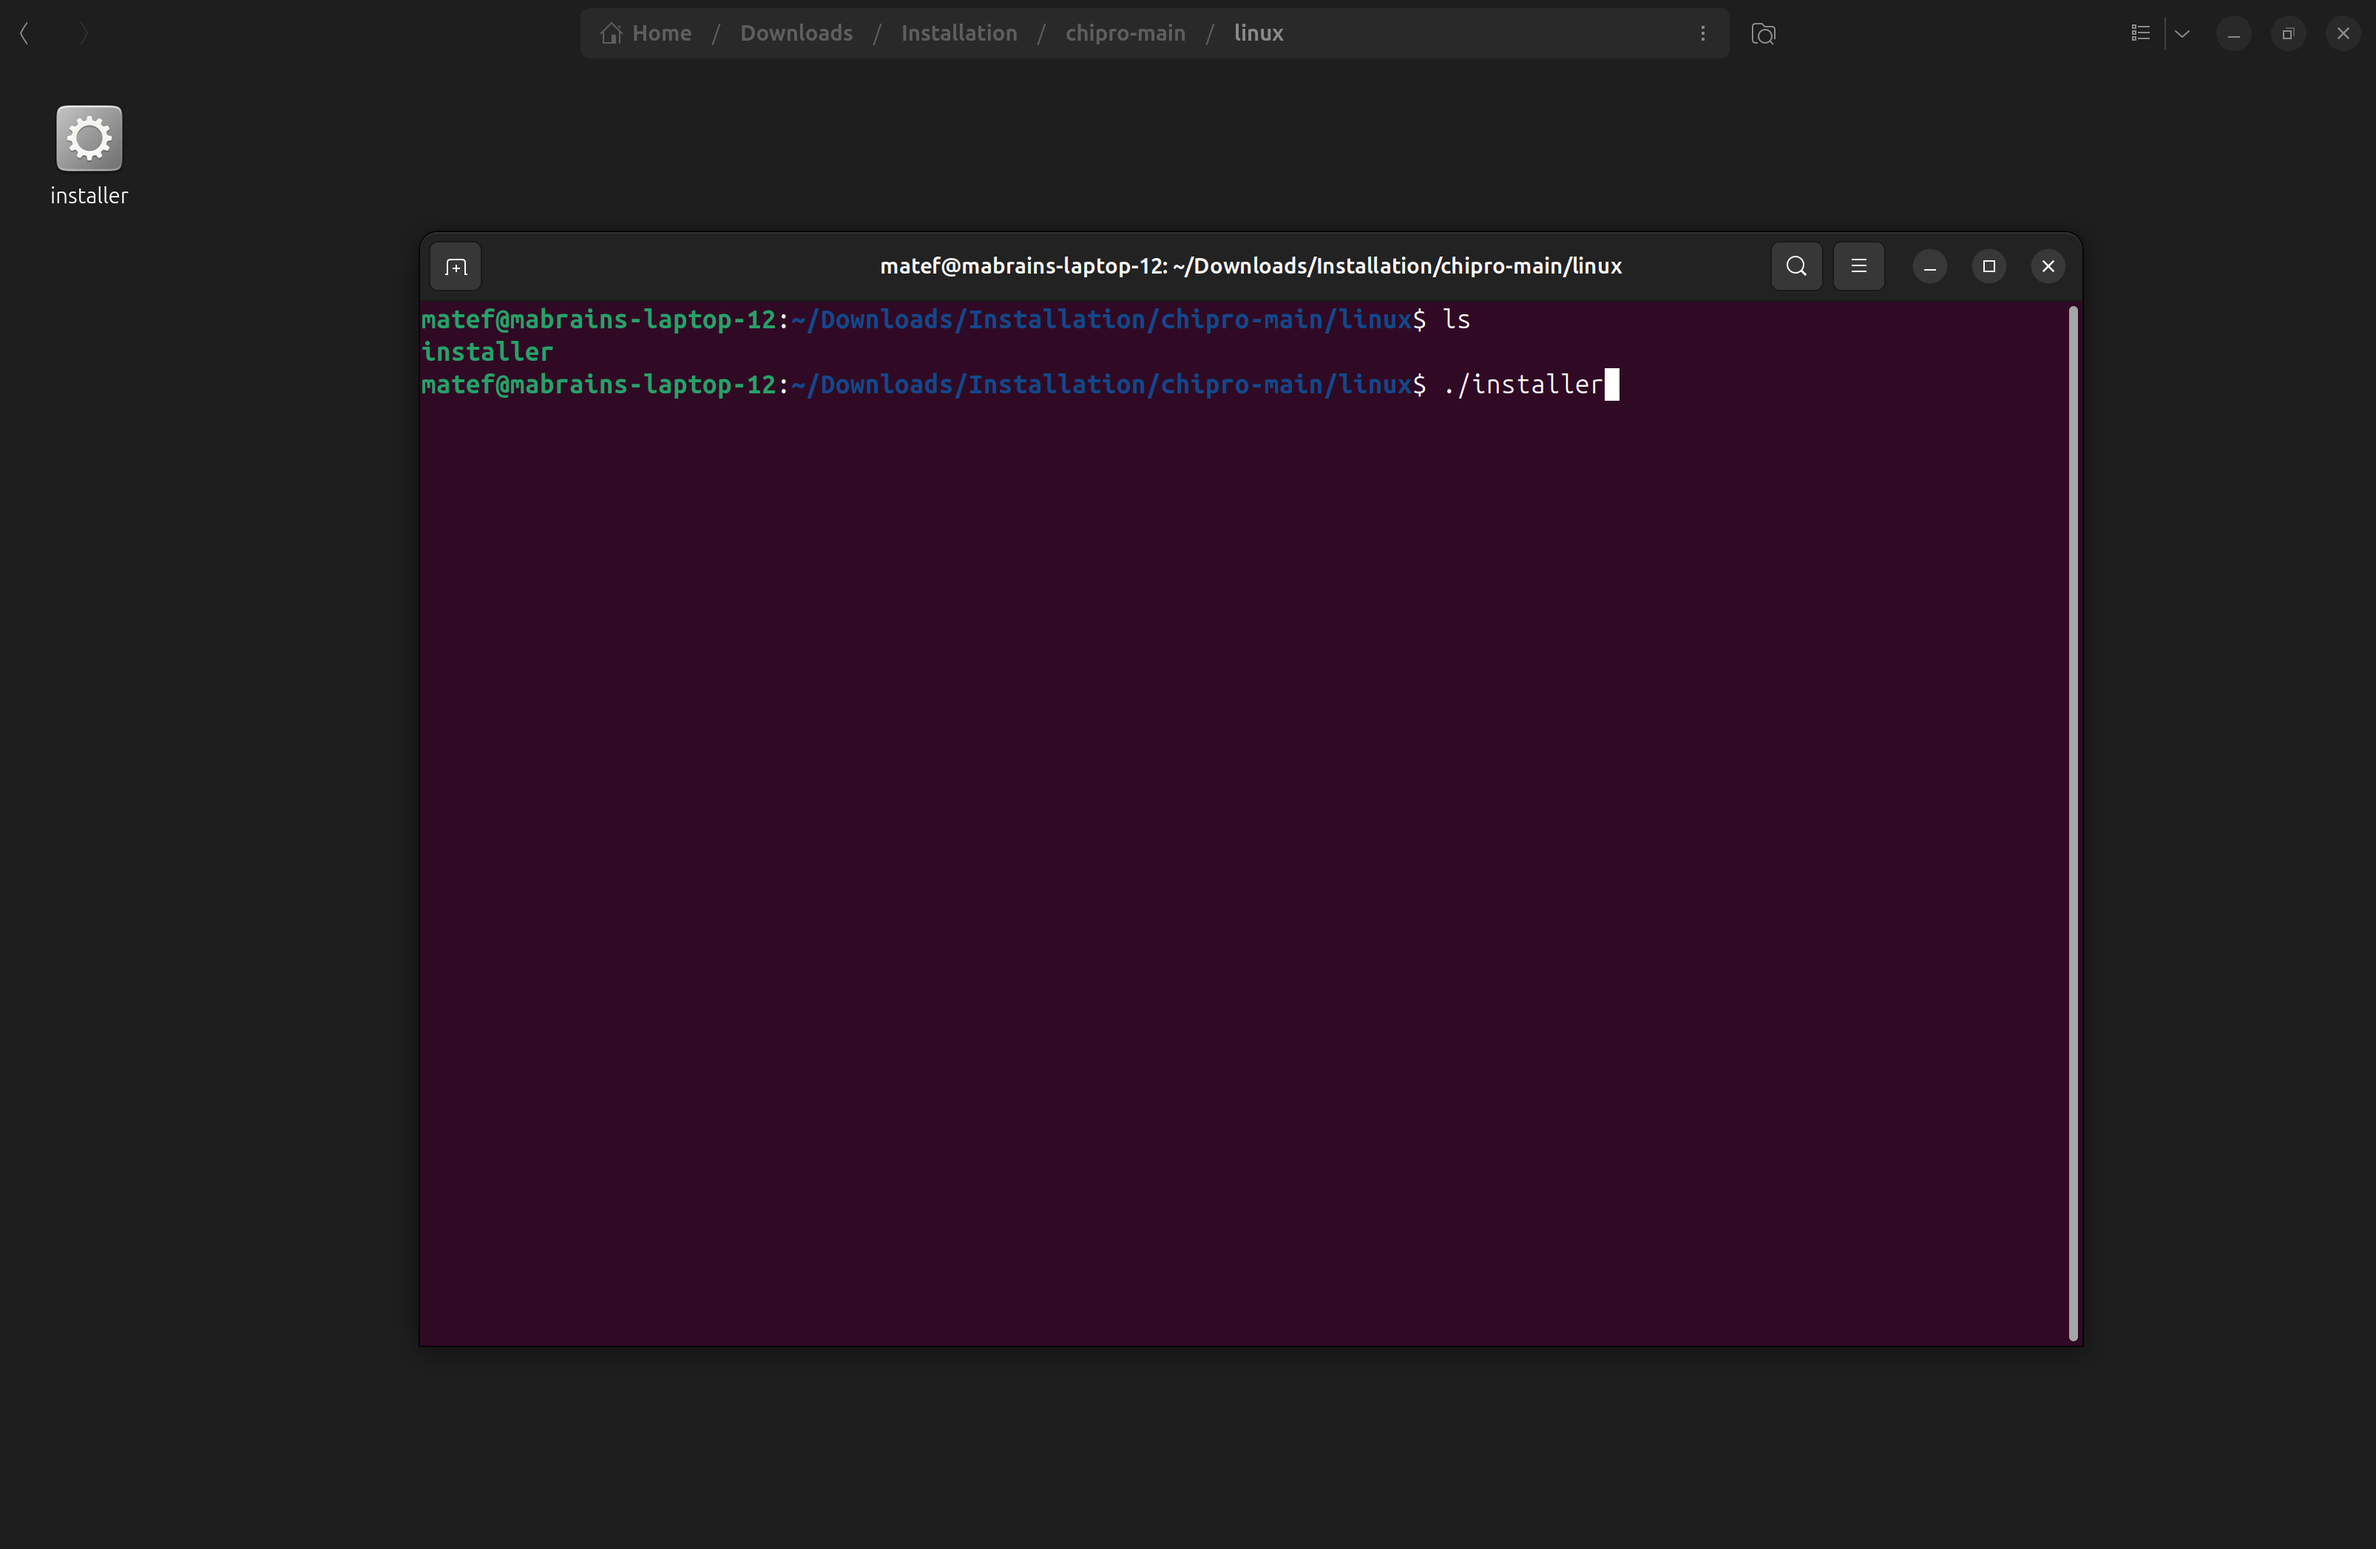
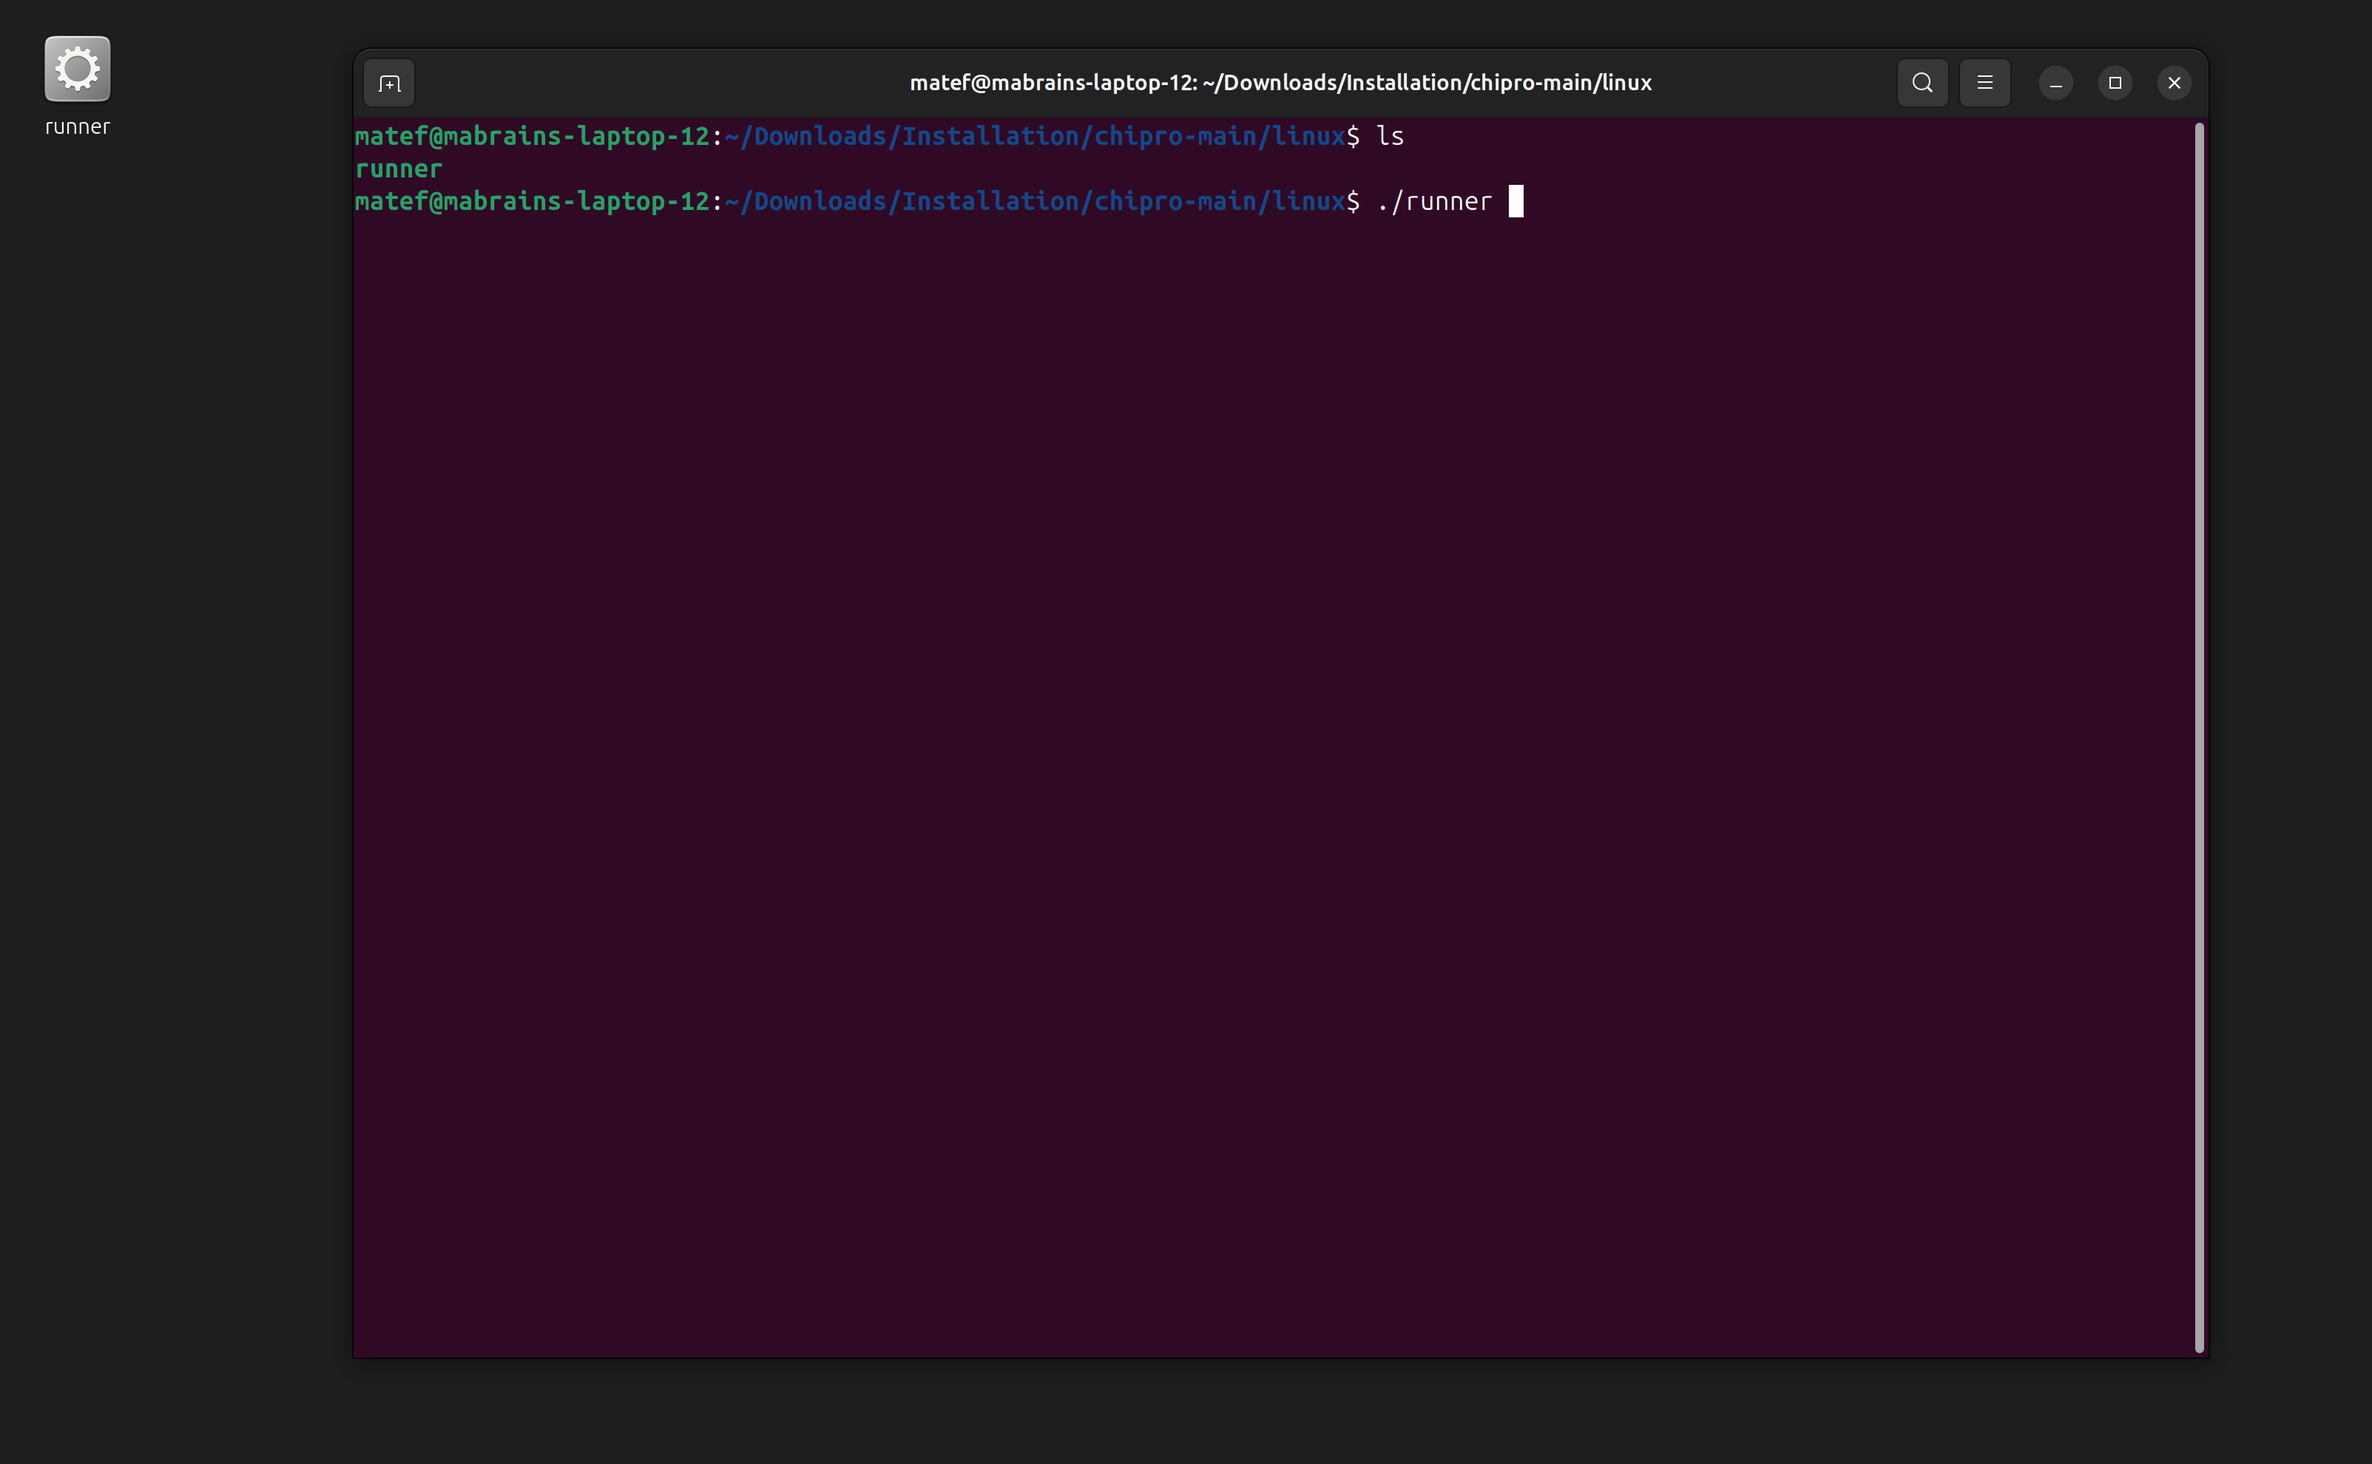
New images for installation

diff --git a/docs/quick-start/installation.md b/docs/quick-start/installation.md
@@ -41,7 +41,7 @@ Once the ZIP file is downloaded, extract it and run the installer that matches y
 
 3. After launching the installer, you will see the Chipro Installer Home screen, where you can configure settings and start the application.
 
-![Installer Home Screen](@site/static/img/chipro/quickStart/installation/installer_home_screen.png)
+![Installer Home Screen](@site/static/img/chipro/quickStart/installation/runner_home_screen.png)
 
 ---
 
@@ -68,7 +68,7 @@ The installer allows you to configure three main settings:
 > Your settings are saved automatically, even if you close the installer.  
 > After entering new values, press **Enter** to apply them.
 
-![Installer Settings](@site/static/img/chipro/quickStart/installation/installer_settings.png)
+![Runner Settings](@site/static/img/chipro/quickStart/installation/runner_settings.png)
 
 ---
 
